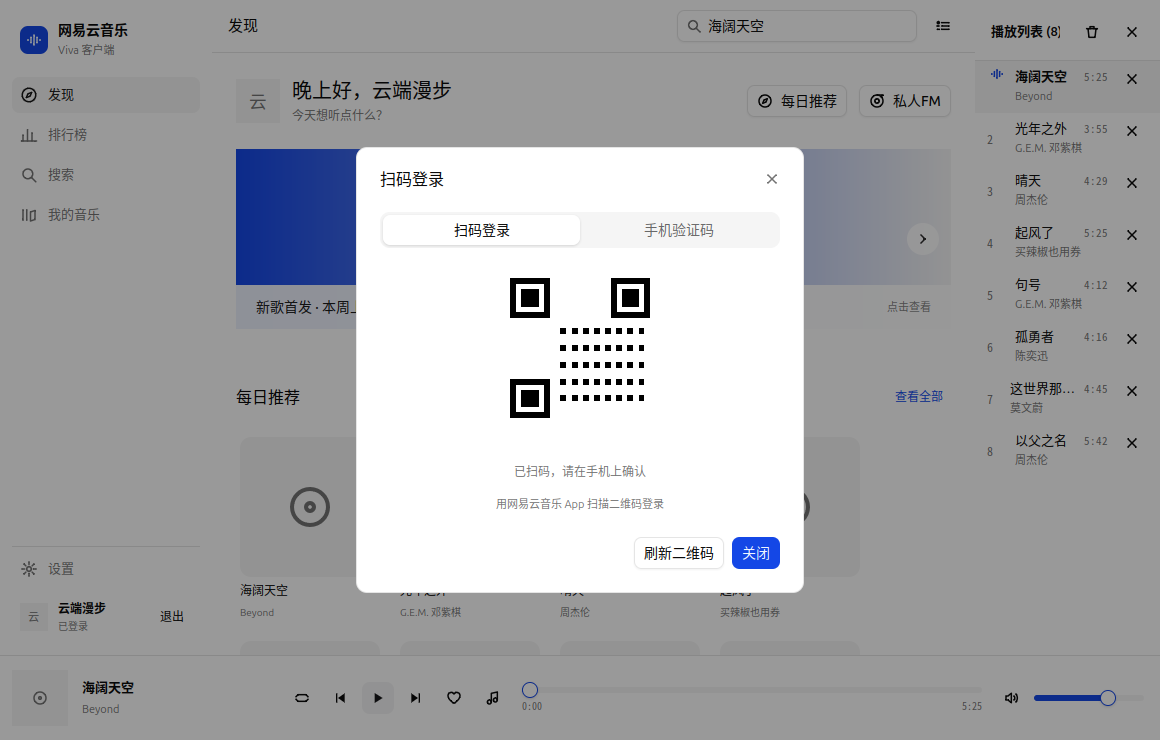
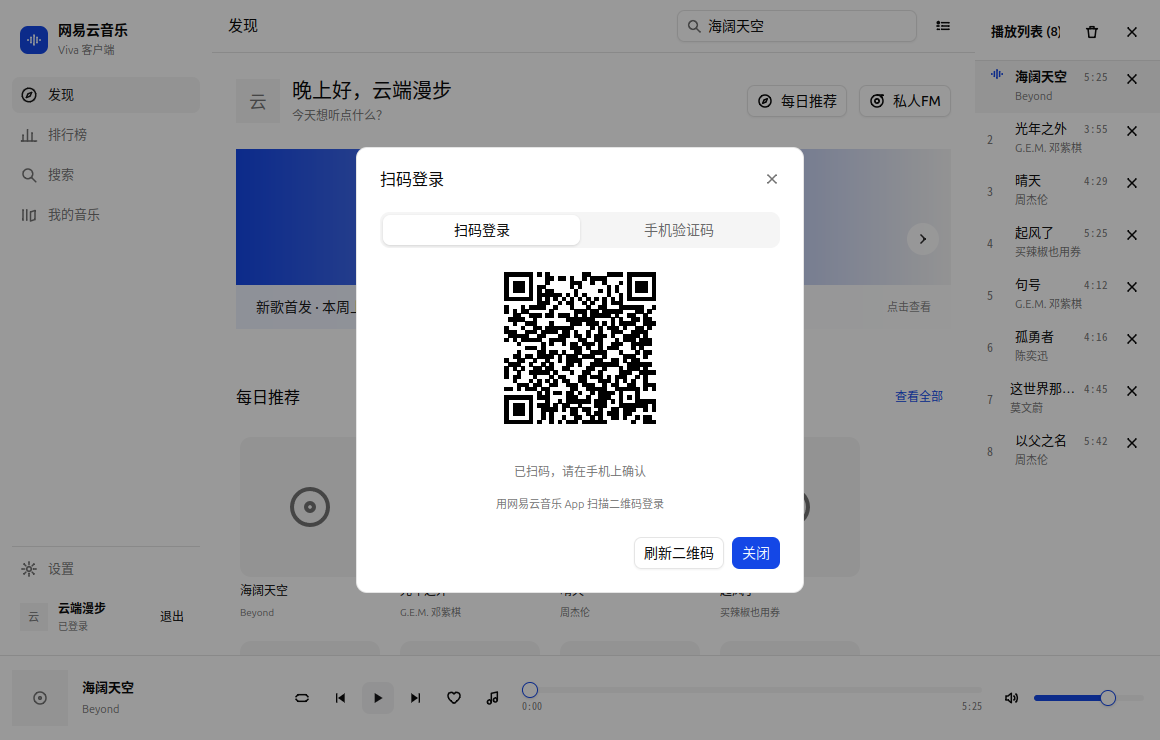
扫码登录的二维码画错了：按模块网格编码，而不是采样固定尺寸的位图
原来把编码器 256px 的输出当成模块网格采样，画出来是 256x256 的方块而不是 21~177
的二维码，手机扫不出来。改为直接用 Bitmap() 的模块网格（并裁掉四模块静区），
新增两条单测（网格尺寸、三处定位图案、明暗比例、长 URL 用更大的网格）和一条
live 测试（真实向服务器申请 unikey 并检查网格）。

顺带：截图夹具改用真实二维码；README 截图表加入登录面板。

测试对齐：headless 的 expect named 现在覆盖登录面板，页面构建后不再覆盖
config.Invalidator（否则后台任务的唤醒发给没人监听的 invalidator）。

Changed region(s): [[0.4345, 0.3419, 0.5897, 0.5905]]

diff --git a/internal/app/qr.go b/internal/app/qr.go
@@ -1,33 +1,39 @@
 package app
 
 import (
-	"image/color"
-
 	qrcode "github.com/skip2/go-qrcode"
 
 	"github.com/vivaui/viva/ui"
 )
 
-// The login QR code is rendered from the QR encoder's own image, one module at
-// a time, because a Viva canvas has no image scaling and a module grid stays
-// sharp at any window size.
+// The login QR code is drawn from the encoder's module grid rather than from a
+// scaled bitmap, so a module stays a sharp square at any window size.
 
-// qrModules encodes a URL and returns its dark modules.
+// qrModule is one dark module of a login QR code: its cell and the grid's
+// width in modules.
+type qrModule struct {
+	X, Y, Size int
+}
+
+// qrModules encodes a URL and returns its dark modules. The bitmap includes the
+// quiet zone the encoder draws around the code; the panel adds its own margin,
+// so the zone is cropped off here.
 func qrModules(content string) ([]qrModule, error) {
 	code, err := qrcode.New(content, qrcode.Medium)
 	if err != nil {
 		return nil, err
 	}
-	code.DisableBorder = true
-	image := code.Image(256)
-	bounds := image.Bounds()
-	// The encoder's image is square; sample its centre of each cell so a
-	// rounding difference at the edge cannot flip a module.
-	size := bounds.Dx()
+	grid := code.Bitmap()
+	// The quiet zone is four modules on each side.
+	const quiet = 4
+	size := len(grid) - quiet*2
+	if size <= 0 {
+		return nil, errEmptyQR
+	}
 	modules := make([]qrModule, 0, size*size/2)
 	for y := 0; y < size; y++ {
 		for x := 0; x < size; x++ {
-			if isDark(image.At(x, y)) {
+			if grid[y+quiet][x+quiet] {
 				modules = append(modules, qrModule{X: x, Y: y, Size: size})
 			}
 		}
@@ -35,45 +41,36 @@ func qrModules(content string) ([]qrModule, error) {
 	return modules, nil
 }
 
-func isDark(c color.Color) bool {
-	r, g, b, a := c.RGBA()
-	if a == 0 {
-		return false
-	}
-	// The encoder's palette is black on white.
-	return r < 0x8000 && g < 0x8000 && b < 0x8000
-}
+// errEmptyQR reports a code that encoded to nothing, which is a programming
+// mistake rather than a server answer.
+var errEmptyQR = qrError("the login URL encoded to an empty QR code")
 
-// qrModule is one dark square: its cell and the grid's width.
-type qrModule struct {
-	X, Y, Size int
-}
+type qrError string
 
-// drawQR paints the modules inside bounds, with a quiet zone of four modules
-// around the grid (the QR specification's own margin).
+func (e qrError) Error() string { return string(e) }
+
+// drawQR paints the modules inside bounds, with a margin of four modules as the
+// QR specification asks.
 func drawQR(d *ui.DrawContext, modules []qrModule, bounds ui.Rect) {
 	if len(modules) == 0 {
 		return
 	}
-	size := modules[0].Size
+	grid := modules[0].Size
 	side := min(bounds.Width, bounds.Height)
-	if side <= 0 {
+	if side <= 0 || grid <= 0 {
 		return
 	}
-	quiet := side * 4 / float32(size+8)
-	grid := side - quiet*2
-	if grid <= 0 {
-		return
-	}
-	cell := grid / float32(size)
-	originX := bounds.X + (bounds.Width-side)/2 + quiet
-	originY := bounds.Y + (bounds.Height-side)/2 + quiet
+	// Four modules of margin on each side, scaled to the box: the code itself
+	// takes the rest.
+	cell := side / float32(grid+8)
+	originX := bounds.X + (bounds.Width-side)/2 + cell*4
+	originY := bounds.Y + (bounds.Height-side)/2 + cell*4
 	black := ui.Color{Alpha: 1}
 	for _, module := range modules {
 		x := originX + float32(module.X)*cell
 		y := originY + float32(module.Y)*cell
-		// A tiny overlap hides the seam between adjacent cells at fractional
-		// scales, which is what a scanner needs at a small size.
-		d.Canvas.Fill(ui.Rect{X: x, Y: y, Width: cell + 0.35, Height: cell + 0.35}, black)
+		// A hair of overlap hides the seam between neighbouring cells at a
+		// fractional scale, which is what a scanner needs at a small size.
+		d.Canvas.Fill(ui.Rect{X: x, Y: y, Width: cell + 0.4, Height: cell + 0.4}, black)
 	}
 }

diff --git a/internal/app/qr_test.go b/internal/app/qr_test.go
@@ -1,0 +1,66 @@
+package app
+
+import (
+	"testing"
+)
+
+// A login QR code has to be a QR code: a grid of modules a phone's camera can
+// read. The regression: the encoder's bitmap was sampled as if it were the
+// module grid, which drew a 256-module block instead of a 21-to-177 grid.
+
+func TestQRCodesAreRealQRCodes(t *testing.T) {
+	modules, err := qrModules("https://music.163.com/login?codekey=abc123def456")
+	if err != nil {
+		t.Fatal(err)
+	}
+	if len(modules) == 0 {
+		t.Fatal("the encoder produced no dark modules")
+	}
+	grid := modules[0].Size
+	if grid < 21 || grid > 177 {
+		t.Fatalf("the code is %d modules wide; a QR code is 21 to 177", grid)
+	}
+	// Every module is inside the grid, and roughly half are dark: a code that is
+	// entirely dark or entirely light encodes nothing.
+	for _, module := range modules {
+		if module.X < 0 || module.X >= grid || module.Y < 0 || module.Y >= grid {
+			t.Fatalf("a module sits at (%d,%d), outside a %d-wide grid", module.X, module.Y, grid)
+		}
+	}
+	density := float64(len(modules)) / float64(grid*grid)
+	if density < 0.3 || density > 0.7 {
+		t.Fatalf("%.0f%% of the modules are dark, which is not a QR code", density*100)
+	}
+	// The three finder patterns are at three corners: each is a 7-module ring
+	// with a 3-module core, so its corner module and the one inside are dark
+	// while the ring between them is light.
+	corner := func(x, y int) bool {
+		for _, module := range modules {
+			if module.X == x && module.Y == y {
+				return true
+			}
+		}
+		return false
+	}
+	for _, at := range [][2]int{{0, 0}, {grid - 7, 0}, {0, grid - 7}} {
+		if !corner(at[0], at[1]) {
+			t.Fatalf("no finder pattern at (%d,%d)", at[0], at[1])
+		}
+	}
+}
+
+// The code grows with the URL: a longer login key needs a bigger grid, which is
+// what tells a real encoder from a fixed grid.
+func TestALongerLoginKeyNeedsABiggerCode(t *testing.T) {
+	short, err := qrModules("https://music.163.com/login?codekey=a")
+	if err != nil {
+		t.Fatal(err)
+	}
+	long, err := qrModules("https://music.163.com/login?codekey=" + "0123456789abcdef" + "0123456789abcdef" + "0123456789abcdef")
+	if err != nil {
+		t.Fatal(err)
+	}
+	if long[0].Size <= short[0].Size {
+		t.Fatalf("a much longer URL encodes to a %d-wide grid, no bigger than the short one's %d", long[0].Size, short[0].Size)
+	}
+}

diff --git a/internal/app/login_live_test.go b/internal/app/login_live_test.go
@@ -1,0 +1,58 @@
+//go:build live
+
+package app
+
+// The login flows a test can reach without a phone: a QR code the server
+// issues, and a poll that answers "waiting". The scan itself needs the user's
+// phone, so that part stays unverified and the README says so.
+
+import (
+	"testing"
+
+	"github.com/vivaui/viva/app"
+)
+
+func TestLiveQRLoginIssuesACode(t *testing.T) {
+	a := liveApp(t)
+	a.openLogin()
+	waitFor(t, a, func() bool {
+		return len(a.login.qr) > 0 || a.login.err != ""
+	})
+	if a.login.err != "" {
+		t.Fatalf("asking for a login QR code failed: %s", a.login.err)
+	}
+	if a.login.unikey == "" {
+		t.Fatal("the server issued no unikey")
+	}
+	// A QR code of the URL is a grid of modules, and the panel has one to draw.
+	if len(a.login.qr) < 64 {
+		t.Fatalf("the drawn code has %d dark modules, which cannot be a QR code", len(a.login.qr))
+	}
+	modules := a.login.qr[0].Size
+	if modules < 21 || modules > 177 {
+		t.Fatalf("the code is %d modules wide; a QR code is 21 to 177", modules)
+	}
+	t.Logf("login QR: %d dark modules on a %dx%d grid", len(a.login.qr), modules, modules)
+
+	// The poll answers without a scan, and the panel keeps waiting rather than
+	// failing.
+	if a.login.state == "" {
+		t.Fatal("the panel has no state to show")
+	}
+	t.Logf("panel state: %q", a.login.state)
+}
+
+func TestLiveLoginStatusWithoutASessionIsNotLoggedIn(t *testing.T) {
+	a := liveApp(t)
+	if a.user.UserID != 0 {
+		t.Fatal("a fresh application claims a signed-in account")
+	}
+	if a.client.LoggedIn() {
+		t.Fatal("a fresh client claims a login token")
+	}
+	// The pages that need an account say so rather than failing silently.
+	a.nav = []route{{kind: routeMine, title: "我的音乐"}}
+	if _, config := a.Page(app.Config{Title: "t", Width: 1160, Height: 740}); config.Title == "" {
+		t.Fatal("the page did not build")
+	}
+}

diff --git a/internal/app/shots_fixture.go b/internal/app/shots_fixture.go
@@ -110,28 +110,12 @@ func (a *App) ShowForShots(page string) {
 	}
 }
 
-// fixtureQR is a stand-in module grid, so the login panel can be looked at
-// without asking the server for a code.
+// fixtureQR is a real QR code for a placeholder login URL, so a screenshot
+// shows the login panel as it looks with a code the server issued.
 func fixtureQR() []qrModule {
-	const size = 25
-	modules := make([]qrModule, 0, 200)
-	// Three finder patterns and a sprinkle of data modules: enough to judge the
-	// panel's geometry, not a scannable code.
-	for _, corner := range [][2]int{{0, 0}, {size - 7, 0}, {0, size - 7}} {
-		for y := 0; y < 7; y++ {
-			for x := 0; x < 7; x++ {
-				border := x == 0 || y == 0 || x == 6 || y == 6
-				core := x >= 2 && x <= 4 && y >= 2 && y <= 4
-				if border || core {
-					modules = append(modules, qrModule{X: corner[0] + x, Y: corner[1] + y, Size: size})
-				}
-			}
-		}
-	}
-	for y := 9; y < size-1; y += 3 {
-		for x := 9; x < size-1; x += 2 {
-			modules = append(modules, qrModule{X: x, Y: y, Size: size})
-		}
+	modules, err := qrModules("https://music.163.com/login?codekey=fixture-unikey-for-screenshots")
+	if err != nil {
+		return nil
 	}
 	return modules
 }
